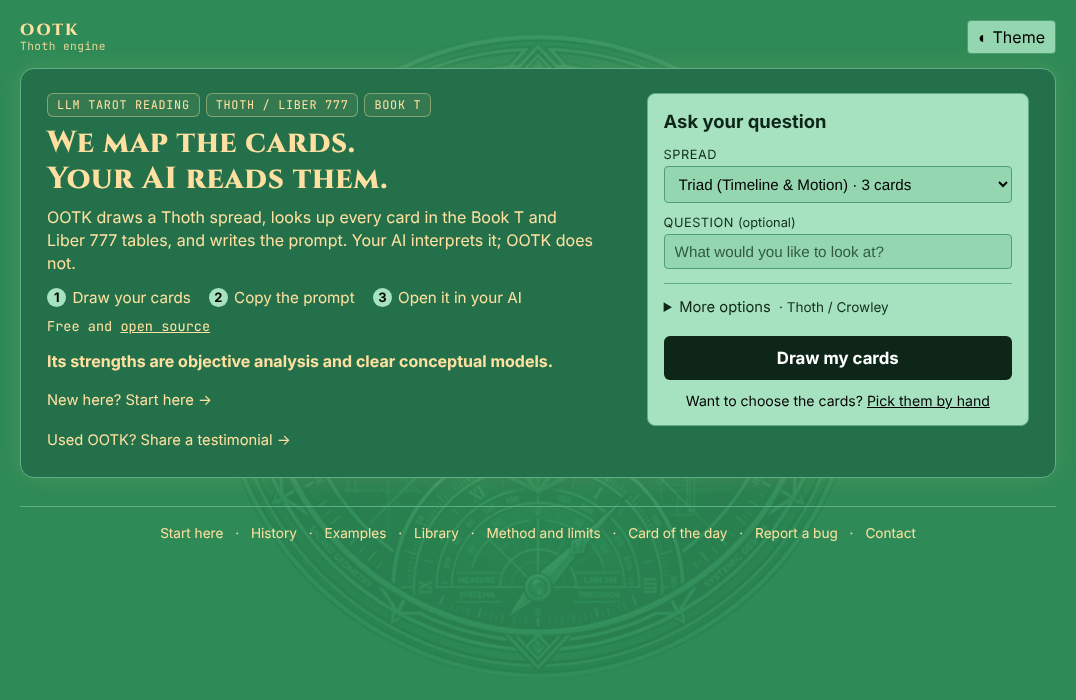
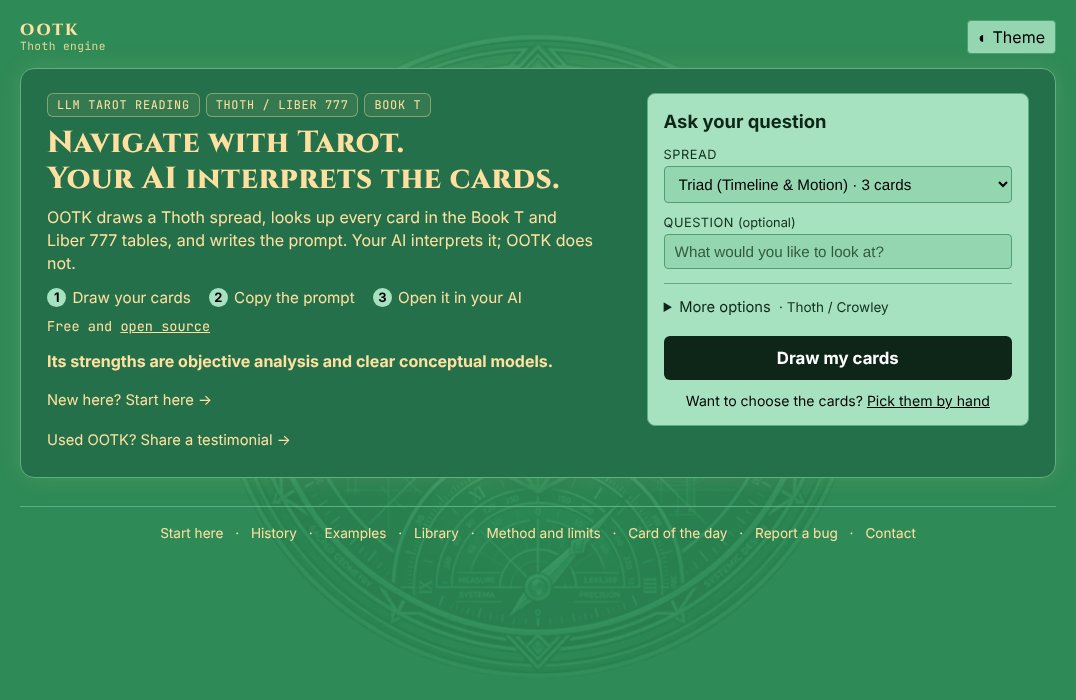
Front page headline: Navigate with Tarot. Your AI interprets the cards.
Claude-Session: https://claude.ai/code/session_011CMjDk8e1YjBynZ6pwH7KF

Changed region(s): [[0.0307, 0.18, 0.5214, 0.27]]

diff --git a/templates/index.html b/templates/index.html
@@ -63,7 +63,7 @@
     <section class="band" aria-labelledby="pageTitle">
         <div class="band-text">
             <p class="chips"><span>LLM Tarot Reading</span><span>Thoth / Liber 777</span><span>Book T</span></p>
-            <h1 id="pageTitle">We map the cards.<br>Your AI reads&nbsp;them.</h1>
+            <h1 id="pageTitle">Navigate with Tarot.<br>Your AI interprets the&nbsp;cards.</h1>
             <p class="tagline">OOTK draws a Thoth spread, looks up every card in the Book&nbsp;T and Liber&nbsp;777 tables, and writes the prompt. Your AI interprets it; OOTK does not.</p>
             <ol class="steps" aria-label="How it works">
                 <li><span>1</span> Draw your cards</li>

diff --git a/tests/test_app_and_engine.py b/tests/test_app_and_engine.py
@@ -1294,7 +1294,7 @@ def test_testimonial_with_a_nul_character_is_refused(client):
 def test_start_page_first_screen_says_who_it_is_for_and_what_to_do(client):
     page = client.get("/").text
     assert "Your AI interprets it; OOTK does not." in page
-    assert "We map the cards.<br>Your AI reads&nbsp;them." in page
+    assert "Navigate with Tarot.<br>Your AI interprets the&nbsp;cards." in page
     assert "ChatGPT" not in page and "For tarot readers" not in page
     assert 'id="readingForm"' in page and 'class="btn-cta"' not in page
     assert "Draw my cards" in page and "<h2>Ask your question</h2>" in page

diff --git a/README.md b/README.md
@@ -6,7 +6,7 @@
 
 **Try it online: [ootk.onrender.com](https://ootk.onrender.com)** (free hosting, so the first visit after a quiet spell takes about a minute to wake up). Card images there are Pamela Colman Smith's public-domain 1909 Rider-Waite-Smith art, because the Thoth paintings are copyrighted.
 
-![The start page: the headline "We map the cards. Your AI reads them.", the three steps (draw your cards, copy the prompt, open it in your AI) and the "Ask your question" panel with its Draw my cards button](docs/images/front.png)
+![The start page: the headline "Navigate with Tarot. Your AI interprets the cards.", the three steps (draw your cards, copy the prompt, open it in your AI) and the "Ask your question" panel with its Draw my cards button](docs/images/front.png)
 
 A Hermetic tarot calculation and analytical engine built around the 78-card Thoth deck, Liber 777 correspondences, and Tree of Life spatial/Platonic geometry.
 
